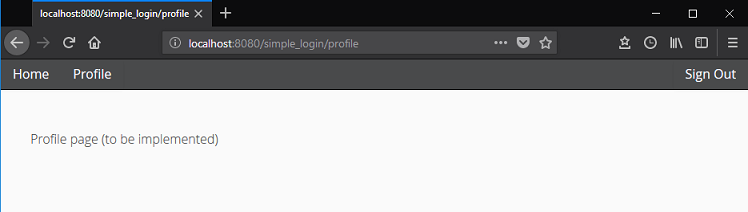
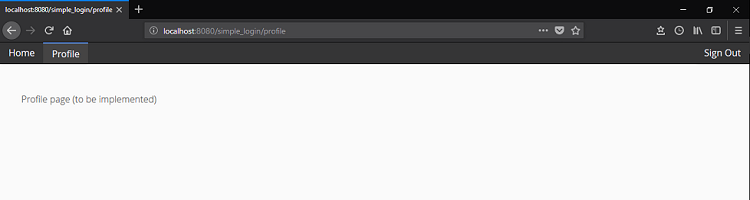
Indicate current page on nav bar

Changed region(s): [[0.0, 0.0, 1.0, 0.45], [0.0307, 0.63, 0.3075, 0.69], [0.0, 0.48, 0.2152, 0.54]]

diff --git a/src/main/resources/VAADIN/themes/custom_theme/custom_theme.scss b/src/main/resources/VAADIN/themes/custom_theme/custom_theme.scss
@@ -23,7 +23,7 @@
 
   .v-slot-navBarLayout {
     width: 100%;
-    background-color: #494a4b;
+    background-color: #353536;
     border-bottom-style: solid;
     border-bottom-width: 1px;
     border-bottom-color: black;
@@ -34,13 +34,20 @@
     right: 0;
   }
 
+  .v-menubar-menuitem-activeMenuItem {
+    border-top-style: solid !important;
+    border-top-width: 2px !important;
+    border-top-color: #5f92f9 !important;
+    background: #454444 !important;
+  }
+
   .v-menubar {
     border: 0;
   }
 
   .v-menubar > .v-menubar-menuitem {
     border: 0;
-    background-color: #494a4b;
+    background-color: #353536;
     color: ghostwhite;
   }
 

diff --git a/src/main/java/org/si/simple_login/vaadin/ViewNavigator.java b/src/main/java/org/si/simple_login/vaadin/ViewNavigator.java
@@ -10,6 +10,7 @@ import com.vaadin.spring.annotation.SpringUI;
 import com.vaadin.spring.annotation.SpringViewDisplay;
 import com.vaadin.spring.navigator.SpringNavigator;
 import com.vaadin.ui.*;
+import com.vaadin.ui.MenuBar;
 import org.si.simple_login.repository.UserAuthenticationDAO;
 import org.si.simple_login.repository.impl.UserAuthenticationDAOSQL;
 import org.si.simple_login.vaadin.views.LoginView;
@@ -17,7 +18,9 @@ import org.si.simple_login.vaadin.views.MainView;
 import org.si.simple_login.vaadin.views.ProfileView;
 import org.springframework.beans.factory.annotation.Autowired;
 
+import java.util.HashMap;
 import java.util.HashSet;
+import java.util.List;
 
 
 /**
@@ -38,7 +41,9 @@ import java.util.HashSet;
  * https://vaadin.com/docs/v8/framework/articles/AccessControlForViews.html
  *
  * For the navigation bar, the ideas owe to the following sources:
- * https://www.youtube.com/watch?v=-xejxaIQTO8; https://vaadin.com/forum/thread/590939
+ * https://www.youtube.com/watch?v=-xejxaIQTO8;
+ * https://vaadin.com/forum/thread/590939;
+ * https://vaadin.com/docs/v8/framework/components/components-menubar.html
  */
 
 @SpringUI(path = "/simple_login")
@@ -53,6 +58,7 @@ public class ViewNavigator extends UI {
     private MenuBar navBarLeft = new MenuBar();
     private MenuBar navBarRight = new MenuBar();
     private HashSet<String> restrictedViewNames = new HashSet<>();
+    private HashMap<String, Integer> menuMap = new HashMap<>();
 
     @Autowired
     public ViewNavigator(SpringNavigator navigator, UserAuthenticationDAO userAuthenticationDAOSQL){
@@ -64,13 +70,21 @@ public class ViewNavigator extends UI {
     public void init(VaadinRequest request){
 
         // set up the navigation bar; styling is done in the scss file
-        navBarLeft.addItem("Home", e -> navigator.navigateTo(MainView.NAME));
+        navBarLeft.addItem("Home",  e -> navigator.navigateTo(MainView.NAME));
         navBarLeft.addItem("Profile", e -> navigator.navigateTo(ProfileView.NAME));
+
         navBarRight.addItem("Sign Out", e -> signOut());
         navBarRight.addStyleName("navBarRight");
+
         HorizontalLayout navBarLayout = new HorizontalLayout(navBarLeft, navBarRight);
         navBarLayout.setStyleName("navBarLayout");
+
         navBarLayout.setVisible(false);
+
+        // associate the navigation items above with their respective indices in the menu bar
+        menuMap.put(MainView.NAME, 0);
+        menuMap.put(ProfileView.NAME, 1);
+        menuMap.put(LoginView.NAME, 2);
 
         // set up the meta-layout for showing views
         componentContainer.setSizeFull();
@@ -84,13 +98,17 @@ public class ViewNavigator extends UI {
         restrictedViewNames.add(ProfileView.NAME);
         navigator.addViewChangeListener(new ViewChangeListener(){
 
+            String previousViewName;
+            List<MenuBar.MenuItem> menuItems = navBarLeft.getItems();
+
             // allow only authenticated users into the restricted pages; attempts to access by the url will fail
             @Override
             public boolean beforeViewChange(ViewChangeEvent viewChangeEvent){
 
                 boolean accessPermission = false;
+                String viewName = extractViewName(viewChangeEvent);
 
-                if(isRestrictedView(viewChangeEvent) &&
+                if(restrictedViewNames.contains(viewName) &&
                         VaadinSession.getCurrent().getAttribute(UserAuthenticationDAOSQL.AUTHENTICATED_USER_NAME) == null){
 
                     Notification.show("Please log in", Notification.Type.ERROR_MESSAGE);
@@ -99,16 +117,36 @@ public class ViewNavigator extends UI {
 
                     accessPermission = true;
                 }
-
                 return accessPermission;
             }
 
+            /**
+             * The logic for marking the current active menu item for styling is from
+             * https://vaadin.com/docs/v8/framework/components/components-menubar.html
+             *
+             * It seems, however, more suitable to select the active menu item here, rather than
+             * in the menuSelected of the MenuBar.Command, if one wants to set the initial
+             * view for special styling as well before the user clicks any menu item. Also, these
+             * few lines nicely can handle the cases of browser refresh.
+             */
             @Override
             public void afterViewChange(ViewChangeEvent viewChangeEvent){
 
-                if(isRestrictedView(viewChangeEvent)){
+                String currentViewName = extractViewName(viewChangeEvent);
+
+                if(restrictedViewNames.contains(currentViewName)){
 
                     navBarLayout.setVisible(true);
+                    MenuBar.MenuItem currentView = menuItems.get(menuMap.get(currentViewName));
+
+                    if(previousViewName != null){
+
+                        MenuBar.MenuItem previousView = menuItems.get(menuMap.get(previousViewName));
+                        previousView.setStyleName(null);
+                    }
+                    currentView.setStyleName("activeMenuItem");
+                    previousViewName = currentViewName;
+
                 } else{
 
                     navBarLayout.setVisible(false);
@@ -118,18 +156,17 @@ public class ViewNavigator extends UI {
     }
 
     /**
-     * Check if requested view needs authentication, as specified in restrictedViewNames
-     * @param viewChangeEvent prompts the confirmation procedure
-     * @return true if the requested view is included in the set of restricted views; else, false
+     * Expresses the current view name in lower case without the suffix
+     * @param viewChangeEvent prompts the editing
+     * @return processed view name
      */
-    private boolean isRestrictedView(ViewChangeListener.ViewChangeEvent viewChangeEvent){
+    private String extractViewName(ViewChangeListener.ViewChangeEvent viewChangeEvent){
 
-        // remove the suffix in a view class name, "View", to facilitate matching
         String viewNameSuffix = "view";
         String viewClassNameTemp = viewChangeEvent.getNewView().getClass().getSimpleName().toLowerCase();
-        String viewClassName = viewClassNameTemp.split(viewNameSuffix)[0];
 
-        return restrictedViewNames.contains(viewClassName);
+        // remove the suffix in a view class name, "view", to facilitate matching
+        return viewClassNameTemp.split(viewNameSuffix)[0];
     }
 
     /**

diff --git a/README.md b/README.md
@@ -71,7 +71,8 @@ Vaadin documentation: https://vaadin.com/docs/v8/framework/themes/themes-creatin
 
 For the navigation bar in particular,<br>
 Demo by Alejandro Duarte: https://www.youtube.com/watch?v=-xejxaIQTO8<br>
-Vaadin forum discussion: https://vaadin.com/forum/thread/590939<br>   
+Vaadin forum discussion: https://vaadin.com/forum/thread/590939<br>
+Vaadin documentation: https://vaadin.com/docs/v8/framework/components/components-menubar.html<br>   
 
 For Spring configuration of authentication,<br>
 eparvan's post: https://stackoverflow.com/questions/42562893/could-not-autowire-no-beans-of-userdetailservice-type-found<br>
